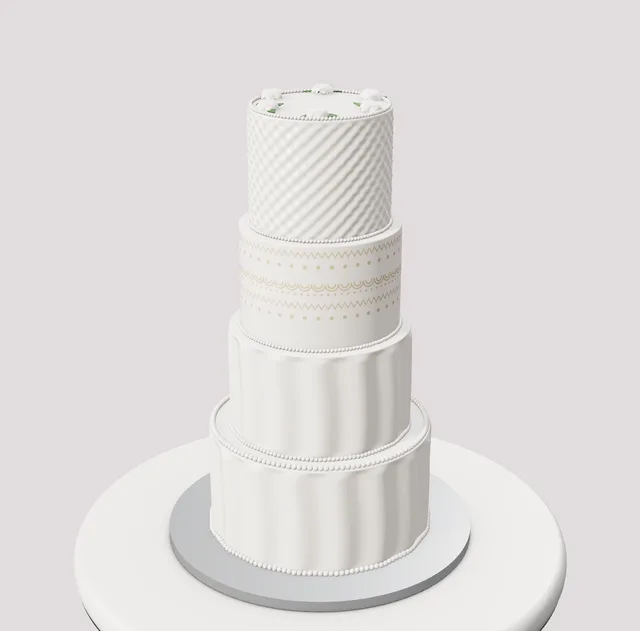
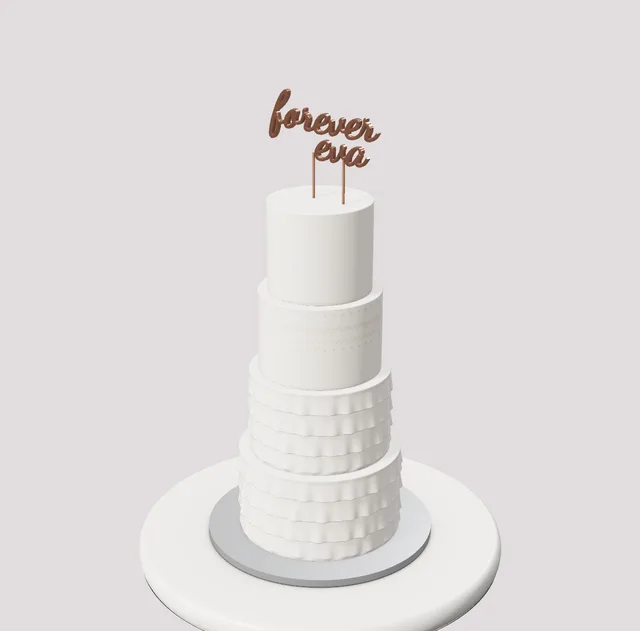
Forever Ruffles: layered fondant frills texture, script word topper (new Script Word Topper decor)
Claude-Session: https://claude.ai/code/session_016sN14hzH19WJ5zrp8o2QGp

Changed region(s): [[0.25, 0.1204, 0.7812, 1.0], [0.8125, 0.8732, 0.9062, 1.0], [0.3125, 0.9937, 0.3438, 1.0]]

diff --git a/studio.html b/studio.html
@@ -439,7 +439,7 @@ const ti=b=>'<svg viewBox="0 0 48 24" fill="none" stroke="currentColor" stroke-w
 const TEX_ICONS={rosettes:ti('<circle cx="14" cy="8" r="4"/><circle cx="24" cy="8" r="4"/><circle cx="34" cy="8" r="4"/><circle cx="19" cy="16" r="4"/><circle cx="29" cy="16" r="4"/><path d="M14 8m-1.5 0a1.5 1.5 0 1 0 1.5-1.5M24 8m-1.5 0a1.5 1.5 0 1 0 1.5-1.5M34 8m-1.5 0a1.5 1.5 0 1 0 1.5-1.5" stroke-width="1"/>'),smooth:ti('<rect x="8" y="4" width="32" height="16" rx="2"/>'),seminaked:ti('<rect x="8" y="4" width="32" height="16" rx="2"/><path d="M10 10h8M22 10h6M32 10h6M12 15h10M26 15h10" stroke-dasharray="2 2"/>'),lines:ti('<path d="M8 6h32M8 10h32M8 14h32M8 18h32"/>'),ribbed:ti('<path d="M12 4v16M17 4v16M22 4v16M27 4v16M32 4v16M37 4v16"/>'),scallop:ti('<path d="M8 8c2-3 4-3 6 0s4 3 6 0 4-3 6 0 4 3 6 0 4-3 6 0M8 15c2-3 4-3 6 0s4 3 6 0 4-3 6 0 4 3 6 0 4-3 6 0"/>'),stripes:ti('<path d="M8 6h32M8 14h32" stroke-width="3"/><path d="M8 10h32M8 18h32" stroke-width="3" opacity=".4"/>'),combed:ti('<path d="M8 7h32M8 9.5h32M8 12h32M8 14.5h32M8 17h32" stroke-width="1"/>'),knife:ti('<path d="M8 16l8-8 6 5 7-7 5 4 6-4M10 20l9-5 7 3 9-6"/>'),stucco:ti('<path d="M10 16l2-5 2 5M18 12l2-5 2 5M26 16l2-5 2 5M34 12l2-5 2 5M14 20l2-4 2 4M30 20l2-4 2 4"/>'),swirl:ti('<path d="M10 14c0-6 10-6 10 0s-6 5-6 1M26 12c0-6 10-6 10 0s-6 5-6 1"/>'),wave:ti('<path d="M3 8c4-5 7 5 11 0s7 5 11 0 7 5 11 0 7 5 9 0M3 17c4-5 7 5 11 0s7 5 11 0 7 5 11 0 7 5 9 0"/>'),zigzag:ti('<path d="M3 9l5-5 5 5 5-5 5 5 5-5 5 5 5-5 5 5M3 19l5-5 5 5 5-5 5 5 5-5 5 5 5-5 5 5"/>'),basket:ti('<path d="M4 4h14v7H4zM20 4h14v7H20zM4 13h14v7H4zM20 13h14v7H20zM36 4h8v7h-8zM36 13h8v7h-8z"/>'),diamond:ti('<path d="M12 2l10 10-10 10L2 12zM32 2l10 10-10 10-10-10z"/>'),golf:ti('<circle cx="8" cy="7" r="2"/><circle cx="18" cy="7" r="2"/><circle cx="28" cy="7" r="2"/><circle cx="38" cy="7" r="2"/><circle cx="13" cy="15" r="2"/><circle cx="23" cy="15" r="2"/><circle cx="33" cy="15" r="2"/>'),dimple:ti('<circle cx="10" cy="7" r="3"/><circle cx="24" cy="7" r="3"/><circle cx="38" cy="7" r="3"/><circle cx="17" cy="17" r="3"/><circle cx="31" cy="17" r="3"/>'),ruffle:ti('<path d="M6 2c-4 6 4 14 0 20M16 2c-4 6 4 14 0 20M26 2c-4 6 4 14 0 20M36 2c-4 6 4 14 0 20"/>'),brushed:ti('<path d="M8 2v20M15 4v18M22 2v19M29 5v17M36 2v20"/>'),swipes:ti('<path d="M8 20l4-18M17 22l4-18M26 20l4-18M35 22l4-18"/>')};TEX_ICONS.grass=ti('<path d="M6 20l1-12M10 20l-1-10M14 20l2-12M18 20l-1-9M22 20l2-12M26 20l-1-10M30 20l2-12M34 20l-1-9M38 20l2-11M42 20l-1-10"/>');TEX_ICONS.fur=ti('<path d="M5 8c1 4 3 6 4 10M11 8c1 4 3 6 4 10M17 8c1 4 3 6 4 10M23 8c1 4 3 6 4 10M29 8c1 4 3 6 4 10M35 8c1 4 3 6 4 10M41 8c1 4 2 6 3 10"/>');
 const DRIPS=['#3b2216','#6b3f24','#f4ecdf','#b8742e','#d4ae5a','#c9ccd2','#e9a6ba','#9fc0d6'];
 const PALETTES=[{name:'Blush And Ivory',frost:['#fbf7f1','#f3d6dc','#fbf7f1'],pipe:'#fbf7f1',bow:'#f29bb4'},{name:'Sage Garden',frost:['#c9d8c5','#fbf7f1','#c9d8c5'],pipe:'#fbf7f1',bow:'#9db59a'},{name:'Dusty Blue',frost:['#d9e6ee','#fbf7f1','#d9e6ee'],pipe:'#fbf7f1',bow:'#9fc0d6'},{name:'Lavender',frost:['#cbbfe0','#fbf7f1','#cbbfe0'],pipe:'#fbf7f1',bow:'#cbbfe0'},{name:'Peach',frost:['#f6dcc8','#fbf7f1','#f6dcc8'],pipe:'#fbf7f1',bow:'#e9a6ba'},{name:'Black And Gold',frost:['#2f2a2c','#fbf7f1','#2f2a2c'],pipe:'#c9a24e',bow:'#c9a24e'},{name:'Chocolate Caramel',frost:['#7a4a32','#e7c08f','#7a4a32'],pipe:'#e7c08f',bow:'#6b4a3a'},{name:'All White',frost:['#fbf7f1','#fbf7f1','#fbf7f1'],pipe:'#fbf7f1',bow:'#fbf7f1'}];
-const TEXTURES={rosettes:'Rosette Cake',smooth:'Smooth',knife:'Palette Knife',lines:'Comb Lines',ribbed:'Ribbed Comb',scallop:'Scalloped',stripes:'Two-Tone Stripes',swirl:'Rustic Swirl',stucco:'Stucco Peaks',combed:'Fine Combed',seminaked:'Semi-Naked',wave:'Wavy Comb',zigzag:'Chevron Comb',basket:'Basket Weave',diamond:'Diamond Quilt',dimple:'Pillow Dimples',golf:'Golf Ball Dimples',ruffle:'Buttercream Ruffles',brushed:'Brushed Streaks',swipes:'Spatula Swipes',grass:'Piped Grass (All Over)',fur:'Piped Fur (All Over)'};
+const TEXTURES={rosettes:'Rosette Cake',smooth:'Smooth',knife:'Palette Knife',lines:'Comb Lines',ribbed:'Ribbed Comb',scallop:'Scalloped',stripes:'Two-Tone Stripes',swirl:'Rustic Swirl',stucco:'Stucco Peaks',combed:'Fine Combed',seminaked:'Semi-Naked',wave:'Wavy Comb',zigzag:'Chevron Comb',basket:'Basket Weave',diamond:'Diamond Quilt',dimple:'Pillow Dimples',golf:'Golf Ball Dimples',ruffle:'Buttercream Ruffles',frills:'Fondant Frills',brushed:'Brushed Streaks',swipes:'Spatula Swipes',grass:'Piped Grass (All Over)',fur:'Piped Fur (All Over)'};
 const BORDERS={none:'None',shells:'Shells',rshells:'Reverse Shells',pearls:'Pearls',dpearls:'Double Pearls',kisses:'Kisses',stars:'Star Drops',dflowers:'Drop Flowers',rosettes:'Rosettes',rope:'Rope',scrolls:'C-Scrolls',zigzag:'Zigzag',ruffle:'Ruffle',leaves:'Leaves',grass:'Piped Grass'};
 const SIDES={none:'None',drapes:'Fondant Drapes',swags:'Swags',double:'Double Swags',lambeth:'Lambeth',strings:'Drop Strings',quilted:'Quilted Pearls',deco:'Art Deco Fans'};
 const TOPS={none:'None',roses:'Sugar Roses',berries:'Fresh Berries',rosettes:'Rosette Crown',horn:'Unicorn Horn'};
@@ -1124,7 +1124,7 @@ const TEX3D={
  diamond:{rows:150,segs:400,make:(r,h,q)=>{const Nd=Math.max(8,Math.round(2*PI*r/.75));return(a,yy)=>{const ui=a/(2*PI)*Nd,vi=yy/.75;return .06*(Math.abs(Math.sin(PI*(ui+vi)))*Math.abs(Math.sin(PI*(ui-vi)))-.3)}}},
  dimple:{rows:150,segs:400,make:(r,h,q)=>{const N=Math.max(8,Math.round(2*PI*r/.6));return(a,yy)=>.05*Math.cos(N*a)*Math.cos(2*PI*yy/.6)}},
  golf:{rows:190,segs:640,make:(r,h,q)=>{const sp=.42,N=Math.max(10,Math.round(2*PI*r/sp)),cu=2*PI*r/N,vh=sp*.866,fr=x=>x-Math.floor(x);return(a,yy)=>{const v=yy/vh,row=Math.floor(v),u=fr(a/(2*PI))*N+(row%2?.5:0),du=(fr(u)-.5)*cu,dv=(fr(v)-.5)*vh,d=Math.hypot(du,dv),k=Math.max(0,1-d/.16);return -.045*k*k*(3-2*k)}}},
- ruffle:{rows:50,segs:480,make:(r,h,q)=>{const N=Math.max(10,Math.round(r*3.4));return(a,yy)=>.1*Math.sin(N*a+.35*Math.sin(yy*.9))}},
+ frills:{rows:140,segs:720,make:(r,h,q)=>{const N=Math.max(12,Math.round(r*4.2)),RH=Math.max(1,h/Math.max(2,Math.round(h/1.35))),ph=[...Array(12)].map(()=>q()*6.28);return(a,yy)=>{const k=Math.floor(yy/RH),u=yy/RH-k,p=ph[k%12],w=Math.sin(N*a+p+.6*Math.sin(3*a+p))*.6+Math.sin(N*1.7*a+p*2)*.4;return(.03+.2*Math.pow(1-u,1.6))*(.55+.45*w)-.05}}},ruffle:{rows:50,segs:480,make:(r,h,q)=>{const N=Math.max(10,Math.round(r*3.4));return(a,yy)=>.1*Math.sin(N*a+.35*Math.sin(yy*.9))}},
  brushed:{rows:110,segs:420,make:(r,h,q)=>{const f=fbm(36,2,1100+Math.floor(q()*500));return(a,yy)=>{const u=((a/(2*PI))%1+1)%1;return .07*(f(u,(yy/h)*.12)-.5)}}},
  swipes:{rows:110,segs:420,make:(r,h,q)=>{const N=Math.max(8,Math.round(2*PI*r/.8)),f=fbm(N,2,1300+Math.floor(q()*500));return(a,yy)=>{const ui=a/(2*PI)*N,fr=((ui%1)+1)%1,u=((a/(2*PI))%1+1)%1;return .06*(fr-.5)+.03*(f(u,(yy/h)*.3)-.5)}}}};
 const texFade=(yy,h)=>smooth(.03,.3,yy)*smooth(h-.02,h-.32,yy);
@@ -1583,6 +1583,17 @@ function sportsTopParts(q,c,mode,dc){const RAD=(dc&&dc.rad)||1;const F=(r0,r1,a0
 DECOR.sportstop={label:'Sports Field Top',layouts:['cluster'],layout:'cluster',count:1,max:1,color:'#3f8f45',colors:['#3f8f45'],sp:.3,side:'up',sink:0,tilt:[0,0],spin:0,make:sportsTopParts};
 DECOR_ICONS.sportstop=di('<circle cx="20" cy="20" r="14" fill="#5cb04e"/><path d="M20 20V6A14 14 0 0 1 34 20z" fill="#d9893a"/><path d="M20 20H6A14 14 0 0 0 20 34z" fill="#2f6fd0"/>');
 {const c=DECOR_CATS.find(x=>x.key==='signature');c.items.push('sportstop')}
+// ---- script word topper (e.g. "forever|eva"), traced from the script fonts ----
+const SCRIPT_WAIT=new Set();
+function scriptTopParts(q,c,mode,dc){const MF=MSG_FONTS[(dc&&dc.font)||'dancing']||MSG_FONTS.dancing,ff={css:MF.css,w:MF.w||''},fs=(ff.w?ff.w+' ':'')+'80px '+MF.css;
+ if(document.fonts&&!document.fonts.check(fs)&&!SCRIPT_WAIT.has(fs)){SCRIPT_WAIT.add(fs);document.fonts.load(fs).then(()=>{GLY.clear();scheduleBuild()}).catch(()=>{})}
+ const lines=String((dc&&dc.text)||'forever|eva').split('|').slice(0,3),gs=[];let y=0;
+ lines.forEach((ln,i)=>{const sh=NUM_FONT.generateShapes(ln,.55,ff);if(!sh.length)return;const g=new T.ExtrudeGeometry(sh,{depth:.07,bevelEnabled:true,bevelThickness:.012,bevelSize:.008,bevelSegments:1,curveSegments:6});g.computeBoundingBox();const b=g.boundingBox;g.translate(-(b.min.x+b.max.x)/2+(i%2?.25:-.1),-b.max.y+y,-.035);y-=(b.max.y-b.min.y)*.86;gs.push(g)});
+ if(!gs.length)return[];const m=mg(gs);m.computeBoundingBox();const bb=m.boundingBox,pk=[];for(const sx of[-.28,.28]){const p=new T.CylinderGeometry(.022,.022,1.3,8);p.translate(sx,bb.min.y-.55,0);pk.push(p)}
+ return[[sgMat.metal(c),mg([m,...pk])]]}
+DECOR.scripttop={label:'Script Word Topper',layouts:['cluster'],layout:'cluster',count:1,max:1,color:'#d9a08a',colors:['#d9a08a','#d4ae5a','#c9ccd2','#1d1b1f','#fbf7f1'],sp:.4,side:'up',sink:.6,tilt:[0,0],spin:0,make:scriptTopParts};
+DECOR_ICONS.scripttop=di('<text x="20" y="24" font-size="13" text-anchor="middle" fill="#d9a08a" font-style="italic" font-family="cursive">love</text>');
+{const c=DECOR_CATS.find(x=>x.key==='signature');c.items.push('scripttop')}
 
 // ---------- Signature cakes: Sprinkle Me Silly's real cakes, rebuilt in the Studio ----------
 const SIG='Signature Cakes';
@@ -1613,11 +1624,11 @@ THEMES.unshift(
   newTier(10,3.6,{shape:'square',color:'#fbf7f1',finish:'fondant',texture:'dimple',prof:'pillow',top:'rope',pipe:'#d4ae5a',bottom:'rope',bottomColor:'#d4ae5a',stencil:{pattern:'damask',color:'#d4ae5a',size:1.8,height:1.8,y:-.8},decor:[DC('roses','band',16,{color:'#fbf7f1',size:130,y:-1.4})]}),
   newTier(7.5,3.2,{shape:'square',color:'#fbf7f1',finish:'fondant',texture:'ruffle',prof:'pillow',top:'rope',pipe:'#fbf7f1',bottom:'scrolls',bottomColor:'#d4ae5a',decor:[DC('tassel','band',4,{color:'#d4ae5a',size:180,rot:45,y:.9})]}),
   newTier(5.5,3.4,{color:'#c9ccd2',texture:'rosettes',prof:'dome',top:'none',bottom:'none',decor:[DC('roses','cluster',10,{color:'#fbf7f1',size:130})]})]}},
- {key:'sig_ruffles',name:'Forever Ruffles',tag:SIG,blurb:'Four ivory fondant tiers with a sweep of ruffles, a lace band and a clean top tier ready for your script topper.',d:{board:'silver',topper:'none',tiers:[
-  newTier(10,5,{color:'#fbf8f2',finish:'fondant',texture:'ruffle',top:'pearls',pipe:'#fbf8f2',bottom:'pearls',bottomColor:'#fbf8f2'}),
-  newTier(8,4.8,{color:'#fbf8f2',finish:'fondant',texture:'ruffle',top:'pearls',pipe:'#fbf8f2',bottom:'pearls',bottomColor:'#fbf8f2'}),
-  newTier(7,4.6,{color:'#fbf8f2',finish:'fondant',top:'pearls',pipe:'#fbf8f2',bottom:'pearls',bottomColor:'#fbf8f2',stencil:{pattern:'lace',color:'#cdb89a',size:2.2,height:3.2,y:.6}}),
-  newTier(6,5,{color:'#fbf8f2',finish:'fondant',texture:'dimple',top:'pearls',pipe:'#fbf8f2',bottom:'pearls',bottomColor:'#fbf8f2',decor:[DC('roses','crown',6,{color:'#fbf8f2',size:120})]})]}},
+ {key:'sig_ruffles',name:'Forever Ruffles',tag:SIG,blurb:'Four ivory fondant tiers: two bottom tiers swept in soft ruffles, a lace band, a clean top tier and a rose gold "forever" script topper.',d:{board:'silver',topper:'none',tiers:[
+  newTier(10,5.4,{color:'#fbf8f2',finish:'fondant',texture:'frills',top:'none',bottom:'none'}),
+  newTier(8.6,5.2,{color:'#fbf8f2',finish:'fondant',texture:'frills',top:'none',bottom:'none'}),
+  newTier(7.4,5,{color:'#fbf8f2',finish:'fondant',top:'none',bottom:'none',stencil:{pattern:'lace',color:'#e6dccd',size:2.2,height:2.6,y:1.1}}),
+  newTier(6.2,5.4,{color:'#fbf8f2',finish:'fondant',top:'none',bottom:'none',decor:[DC('scripttop','cluster',1,{color:'#e2ae96',size:380,center:true,face:95,text:'forever|eva'})]})]}},
  {key:'sig_rosegold',name:'Rose Gold Jewels',tag:SIG,blurb:'Six tiers of quilted ivory, jeweled chain swags, a rose gold glitter tier and rhinestone brooch bursts with rose gold roses.',d:{board:'rosegold',topper:'none',tiers:[
   newTier(12,4,{color:'#fbf8f2',finish:'fondant',side:'quilted',sideColor:'#fbf8f2',pearlColor:'#d9a08a',top:'pearls',pipe:'#d9a08a',bottom:'pearls',bottomColor:'#d9a08a',decor:[DC('brooch','band',1,{color:'#d9a08a',size:230,R:6,rot:95}),DC('dragees','scatter',40,{color:'#d9a08a',size:45})]}),
   newTier(10,3.6,{color:'#fbf8f2',finish:'fondant',side:'swags',sideColor:'#d9a08a',pearlColor:'#d9a08a',top:'pearls',pipe:'#d9a08a',bottom:'pearls',bottomColor:'#d9a08a',decor:[DC('roses','cascade',5,{color:'#d9a08a',size:130,rot:-30})]}),
@@ -1701,14 +1712,14 @@ let numFontP=null,numArea=0,numSize={w:0,d:0};
 const NUM_CAKES={golden:'#d9a45c',vanilla:'#efd9a8',chocolate:'#5a3424',pink:'#e9a6ba',redvelvet:'#9a2a33'};
 const NUM_CAKE_LABELS={golden:'Golden Cookie',vanilla:'Vanilla Sponge',chocolate:'Chocolate',pink:'Strawberry Pink',redvelvet:'Red Velvet'};
 // Letters and numbers are drawn from the browser's own bold font and traced into outlines (with holes), so nothing is downloaded and every letter works.
-function glyphLoops(text){const FS=360,font='bold '+FS+'px "Arial Black","Helvetica Neue",Arial,Helvetica,"Liberation Sans","DejaVu Sans",sans-serif',cv=document.createElement('canvas'),x=cv.getContext('2d',{willReadFrequently:true});x.font=font;const W=Math.ceil(x.measureText(text).width)+60,H=Math.ceil(FS*1.35),base=Math.round(FS*1.05);cv.width=W;cv.height=H;x.font=font;x.fillStyle='#000';x.fillText(text,30,base);
+function glyphLoops(text,ff){const FS=360,font=ff?((ff.w?ff.w+' ':'')+FS+'px '+ff.css):'bold '+FS+'px "Arial Black","Helvetica Neue",Arial,Helvetica,"Liberation Sans","DejaVu Sans",sans-serif',cv=document.createElement('canvas'),x=cv.getContext('2d',{willReadFrequently:true});x.font=font;const W=Math.ceil(x.measureText(text).width)+60,H=Math.ceil(FS*1.35),base=Math.round(FS*1.05);cv.width=W;cv.height=H;x.font=font;x.fillStyle='#000';x.fillText(text,30,base);
  const d=x.getImageData(0,0,W,H).data,on=(i,j)=>i>=0&&j>=0&&i<W&&j<H&&d[(j*W+i)*4+3]>127,V=W+1,out=new Map(),add=(a,b)=>{let l=out.get(a);if(!l)out.set(a,l=[]);l.push(b)};
  for(let j=0;j<H;j++)for(let i=0;i<W;i++){if(!on(i,j))continue;const a=j*V+i;if(!on(i,j-1))add(a,a+1);if(!on(i+1,j))add(a+1,a+1+V);if(!on(i,j+1))add(a+1+V,a+V);if(!on(i-1,j))add(a+V,a)}
  const loops=[];for(const[start,l0]of out){while(l0.length){const pts=[];let cur=start,nx=l0.pop();pts.push(cur);let guard=0;while(nx!==start&&guard++<2e6){pts.push(nx);const l=out.get(nx);if(!l||!l.length)break;cur=nx;nx=l.pop()}if(pts.length>=4)loops.push(pts.map(v=>[v%V,(v/V)|0]))}}
  const area=P=>{let a=0;for(let i=0,j=P.length-1;i<P.length;j=i++)a+=(P[j][0]*P[i][1]-P[i][0]*P[j][1]);return a/2},rdp=(P,e)=>{if(P.length<3)return P;const a=P[0],b=P[P.length-1],l=Math.hypot(b[0]-a[0],b[1]-a[1])||1e-6;let md=0,mi=0;for(let i=1;i<P.length-1;i++){const dd=Math.abs((b[0]-a[0])*(a[1]-P[i][1])-(a[0]-P[i][0])*(b[1]-a[1]))/l;if(dd>md){md=dd;mi=i}}if(md>e){const A=rdp(P.slice(0,mi+1),e),B=rdp(P.slice(mi),e);return A.slice(0,-1).concat(B)}return[a,b]};
  const simp=loops.map(P=>{let mi=0,ma=0;P.forEach((p,i)=>{if(p[0]+p[1]*7>ma){ma=p[0]+p[1]*7;mi=i}});const R=P.slice(mi).concat(P.slice(0,mi));R.push(R[0]);const k=R.length>>1,A=rdp(R.slice(0,k+1),.75),B=rdp(R.slice(k),.75),S=A.slice(0,-1).concat(B.slice(0,-1));return S}).filter(P=>P.length>=3&&Math.abs(area(P))>40);
  return{loops:simp.map(P=>({P,a:area(P)})),base,FS}}
-const GLY=new Map(),NUM_FONT={generateShapes(text,size){let g=GLY.get(text);if(!g){g=glyphLoops(text);GLY.set(text,g);if(GLY.size>30)GLY.delete(GLY.keys().next().value)}const sc=size/(g.FS*.72),sgn=Math.sign(g.loops.reduce((m,l)=>Math.abs(l.a)>Math.abs(m)?l.a:m,0))||1,conv=P=>P.map(([px,py])=>new V2((px-30)*sc,(g.base-py)*sc)),pip=(pt,poly)=>{let c=false;for(let i=0,j=poly.length-1;i<poly.length;j=i++){const[xi,yi]=poly[i],[xj,yj]=poly[j];if((yi>pt[1])!==(yj>pt[1])&&pt[0]<(xj-xi)*(pt[1]-yi)/(yj-yi)+xi)c=!c}return c};
+const GLY=new Map(),NUM_FONT={generateShapes(text,size,ff){const gk=text+'|'+(ff?ff.css+(ff.w||''):'');let g=GLY.get(gk);if(!g){g=glyphLoops(text,ff);GLY.set(gk,g);if(GLY.size>30)GLY.delete(GLY.keys().next().value)}const sc=size/(g.FS*.72),sgn=Math.sign(g.loops.reduce((m,l)=>Math.abs(l.a)>Math.abs(m)?l.a:m,0))||1,conv=P=>P.map(([px,py])=>new V2((px-30)*sc,(g.base-py)*sc)),pip=(pt,poly)=>{let c=false;for(let i=0,j=poly.length-1;i<poly.length;j=i++){const[xi,yi]=poly[i],[xj,yj]=poly[j];if((yi>pt[1])!==(yj>pt[1])&&pt[0]<(xj-xi)*(pt[1]-yi)/(yj-yi)+xi)c=!c}return c};
   const outers=g.loops.filter(l=>Math.sign(l.a)===sgn),holes=g.loops.filter(l=>Math.sign(l.a)!==sgn),shapes=outers.map(o=>({o,s:new T.Shape(conv(o.P))}));
   for(const h of holes){const host=shapes.filter(q=>pip(h.P[0],q.o.P)).sort((a,b)=>Math.abs(a.o.a)-Math.abs(b.o.a))[0];if(host)host.s.holes.push(new T.Path(conv(h.P)))}
   return shapes.map(q=>q.s)}};

diff --git a/tools/signature-decor.js b/tools/signature-decor.js
@@ -251,6 +251,17 @@ function sportsTopParts(q,c,mode,dc){const RAD=(dc&&dc.rad)||1;const F=(r0,r1,a0
 DECOR.sportstop={label:'Sports Field Top',layouts:['cluster'],layout:'cluster',count:1,max:1,color:'#3f8f45',colors:['#3f8f45'],sp:.3,side:'up',sink:0,tilt:[0,0],spin:0,make:sportsTopParts};
 DECOR_ICONS.sportstop=di('<circle cx="20" cy="20" r="14" fill="#5cb04e"/><path d="M20 20V6A14 14 0 0 1 34 20z" fill="#d9893a"/><path d="M20 20H6A14 14 0 0 0 20 34z" fill="#2f6fd0"/>');
 {const c=DECOR_CATS.find(x=>x.key==='signature');c.items.push('sportstop')}
+// ---- script word topper (e.g. "forever|eva"), traced from the script fonts ----
+const SCRIPT_WAIT=new Set();
+function scriptTopParts(q,c,mode,dc){const MF=MSG_FONTS[(dc&&dc.font)||'dancing']||MSG_FONTS.dancing,ff={css:MF.css,w:MF.w||''},fs=(ff.w?ff.w+' ':'')+'80px '+MF.css;
+ if(document.fonts&&!document.fonts.check(fs)&&!SCRIPT_WAIT.has(fs)){SCRIPT_WAIT.add(fs);document.fonts.load(fs).then(()=>{GLY.clear();scheduleBuild()}).catch(()=>{})}
+ const lines=String((dc&&dc.text)||'forever|eva').split('|').slice(0,3),gs=[];let y=0;
+ lines.forEach((ln,i)=>{const sh=NUM_FONT.generateShapes(ln,.55,ff);if(!sh.length)return;const g=new T.ExtrudeGeometry(sh,{depth:.07,bevelEnabled:true,bevelThickness:.012,bevelSize:.008,bevelSegments:1,curveSegments:6});g.computeBoundingBox();const b=g.boundingBox;g.translate(-(b.min.x+b.max.x)/2+(i%2?.25:-.1),-b.max.y+y,-.035);y-=(b.max.y-b.min.y)*.86;gs.push(g)});
+ if(!gs.length)return[];const m=mg(gs);m.computeBoundingBox();const bb=m.boundingBox,pk=[];for(const sx of[-.28,.28]){const p=new T.CylinderGeometry(.022,.022,1.3,8);p.translate(sx,bb.min.y-.55,0);pk.push(p)}
+ return[[sgMat.metal(c),mg([m,...pk])]]}
+DECOR.scripttop={label:'Script Word Topper',layouts:['cluster'],layout:'cluster',count:1,max:1,color:'#d9a08a',colors:['#d9a08a','#d4ae5a','#c9ccd2','#1d1b1f','#fbf7f1'],sp:.4,side:'up',sink:.6,tilt:[0,0],spin:0,make:scriptTopParts};
+DECOR_ICONS.scripttop=di('<text x="20" y="24" font-size="13" text-anchor="middle" fill="#d9a08a" font-style="italic" font-family="cursive">love</text>');
+{const c=DECOR_CATS.find(x=>x.key==='signature');c.items.push('scripttop')}
 
 // ---------- Signature cakes: Sprinkle Me Silly's real cakes, rebuilt in the Studio ----------
 const SIG='Signature Cakes';
@@ -281,11 +292,11 @@ THEMES.unshift(
   newTier(10,3.6,{shape:'square',color:'#fbf7f1',finish:'fondant',texture:'dimple',prof:'pillow',top:'rope',pipe:'#d4ae5a',bottom:'rope',bottomColor:'#d4ae5a',stencil:{pattern:'damask',color:'#d4ae5a',size:1.8,height:1.8,y:-.8},decor:[DC('roses','band',16,{color:'#fbf7f1',size:130,y:-1.4})]}),
   newTier(7.5,3.2,{shape:'square',color:'#fbf7f1',finish:'fondant',texture:'ruffle',prof:'pillow',top:'rope',pipe:'#fbf7f1',bottom:'scrolls',bottomColor:'#d4ae5a',decor:[DC('tassel','band',4,{color:'#d4ae5a',size:180,rot:45,y:.9})]}),
   newTier(5.5,3.4,{color:'#c9ccd2',texture:'rosettes',prof:'dome',top:'none',bottom:'none',decor:[DC('roses','cluster',10,{color:'#fbf7f1',size:130})]})]}},
- {key:'sig_ruffles',name:'Forever Ruffles',tag:SIG,blurb:'Four ivory fondant tiers with a sweep of ruffles, a lace band and a clean top tier ready for your script topper.',d:{board:'silver',topper:'none',tiers:[
-  newTier(10,5,{color:'#fbf8f2',finish:'fondant',texture:'ruffle',top:'pearls',pipe:'#fbf8f2',bottom:'pearls',bottomColor:'#fbf8f2'}),
-  newTier(8,4.8,{color:'#fbf8f2',finish:'fondant',texture:'ruffle',top:'pearls',pipe:'#fbf8f2',bottom:'pearls',bottomColor:'#fbf8f2'}),
-  newTier(7,4.6,{color:'#fbf8f2',finish:'fondant',top:'pearls',pipe:'#fbf8f2',bottom:'pearls',bottomColor:'#fbf8f2',stencil:{pattern:'lace',color:'#cdb89a',size:2.2,height:3.2,y:.6}}),
-  newTier(6,5,{color:'#fbf8f2',finish:'fondant',texture:'dimple',top:'pearls',pipe:'#fbf8f2',bottom:'pearls',bottomColor:'#fbf8f2',decor:[DC('roses','crown',6,{color:'#fbf8f2',size:120})]})]}},
+ {key:'sig_ruffles',name:'Forever Ruffles',tag:SIG,blurb:'Four ivory fondant tiers: two bottom tiers swept in soft ruffles, a lace band, a clean top tier and a rose gold "forever" script topper.',d:{board:'silver',topper:'none',tiers:[
+  newTier(10,5.4,{color:'#fbf8f2',finish:'fondant',texture:'frills',top:'none',bottom:'none'}),
+  newTier(8.6,5.2,{color:'#fbf8f2',finish:'fondant',texture:'frills',top:'none',bottom:'none'}),
+  newTier(7.4,5,{color:'#fbf8f2',finish:'fondant',top:'none',bottom:'none',stencil:{pattern:'lace',color:'#e6dccd',size:2.2,height:2.6,y:1.1}}),
+  newTier(6.2,5.4,{color:'#fbf8f2',finish:'fondant',top:'none',bottom:'none',decor:[DC('scripttop','cluster',1,{color:'#e2ae96',size:380,center:true,face:95,text:'forever|eva'})]})]}},
  {key:'sig_rosegold',name:'Rose Gold Jewels',tag:SIG,blurb:'Six tiers of quilted ivory, jeweled chain swags, a rose gold glitter tier and rhinestone brooch bursts with rose gold roses.',d:{board:'rosegold',topper:'none',tiers:[
   newTier(12,4,{color:'#fbf8f2',finish:'fondant',side:'quilted',sideColor:'#fbf8f2',pearlColor:'#d9a08a',top:'pearls',pipe:'#d9a08a',bottom:'pearls',bottomColor:'#d9a08a',decor:[DC('brooch','band',1,{color:'#d9a08a',size:230,R:6,rot:95}),DC('dragees','scatter',40,{color:'#d9a08a',size:45})]}),
   newTier(10,3.6,{color:'#fbf8f2',finish:'fondant',side:'swags',sideColor:'#d9a08a',pearlColor:'#d9a08a',top:'pearls',pipe:'#d9a08a',bottom:'pearls',bottomColor:'#d9a08a',decor:[DC('roses','cascade',5,{color:'#d9a08a',size:130,rot:-30})]}),

diff --git a/tools/sig-themes.js b/tools/sig-themes.js
@@ -27,11 +27,11 @@ THEMES.unshift(
   newTier(10,3.6,{shape:'square',color:'#fbf7f1',finish:'fondant',texture:'dimple',prof:'pillow',top:'rope',pipe:'#d4ae5a',bottom:'rope',bottomColor:'#d4ae5a',stencil:{pattern:'damask',color:'#d4ae5a',size:1.8,height:1.8,y:-.8},decor:[DC('roses','band',16,{color:'#fbf7f1',size:130,y:-1.4})]}),
   newTier(7.5,3.2,{shape:'square',color:'#fbf7f1',finish:'fondant',texture:'ruffle',prof:'pillow',top:'rope',pipe:'#fbf7f1',bottom:'scrolls',bottomColor:'#d4ae5a',decor:[DC('tassel','band',4,{color:'#d4ae5a',size:180,rot:45,y:.9})]}),
   newTier(5.5,3.4,{color:'#c9ccd2',texture:'rosettes',prof:'dome',top:'none',bottom:'none',decor:[DC('roses','cluster',10,{color:'#fbf7f1',size:130})]})]}},
- {key:'sig_ruffles',name:'Forever Ruffles',tag:SIG,blurb:'Four ivory fondant tiers with a sweep of ruffles, a lace band and a clean top tier ready for your script topper.',d:{board:'silver',topper:'none',tiers:[
-  newTier(10,5,{color:'#fbf8f2',finish:'fondant',texture:'ruffle',top:'pearls',pipe:'#fbf8f2',bottom:'pearls',bottomColor:'#fbf8f2'}),
-  newTier(8,4.8,{color:'#fbf8f2',finish:'fondant',texture:'ruffle',top:'pearls',pipe:'#fbf8f2',bottom:'pearls',bottomColor:'#fbf8f2'}),
-  newTier(7,4.6,{color:'#fbf8f2',finish:'fondant',top:'pearls',pipe:'#fbf8f2',bottom:'pearls',bottomColor:'#fbf8f2',stencil:{pattern:'lace',color:'#cdb89a',size:2.2,height:3.2,y:.6}}),
-  newTier(6,5,{color:'#fbf8f2',finish:'fondant',texture:'dimple',top:'pearls',pipe:'#fbf8f2',bottom:'pearls',bottomColor:'#fbf8f2',decor:[DC('roses','crown',6,{color:'#fbf8f2',size:120})]})]}},
+ {key:'sig_ruffles',name:'Forever Ruffles',tag:SIG,blurb:'Four ivory fondant tiers: two bottom tiers swept in soft ruffles, a lace band, a clean top tier and a rose gold "forever" script topper.',d:{board:'silver',topper:'none',tiers:[
+  newTier(10,5.4,{color:'#fbf8f2',finish:'fondant',texture:'frills',top:'none',bottom:'none'}),
+  newTier(8.6,5.2,{color:'#fbf8f2',finish:'fondant',texture:'frills',top:'none',bottom:'none'}),
+  newTier(7.4,5,{color:'#fbf8f2',finish:'fondant',top:'none',bottom:'none',stencil:{pattern:'lace',color:'#e6dccd',size:2.2,height:2.6,y:1.1}}),
+  newTier(6.2,5.4,{color:'#fbf8f2',finish:'fondant',top:'none',bottom:'none',decor:[DC('scripttop','cluster',1,{color:'#e2ae96',size:380,center:true,face:95,text:'forever|eva'})]})]}},
  {key:'sig_rosegold',name:'Rose Gold Jewels',tag:SIG,blurb:'Six tiers of quilted ivory, jeweled chain swags, a rose gold glitter tier and rhinestone brooch bursts with rose gold roses.',d:{board:'rosegold',topper:'none',tiers:[
   newTier(12,4,{color:'#fbf8f2',finish:'fondant',side:'quilted',sideColor:'#fbf8f2',pearlColor:'#d9a08a',top:'pearls',pipe:'#d9a08a',bottom:'pearls',bottomColor:'#d9a08a',decor:[DC('brooch','band',1,{color:'#d9a08a',size:230,R:6,rot:95}),DC('dragees','scatter',40,{color:'#d9a08a',size:45})]}),
   newTier(10,3.6,{color:'#fbf8f2',finish:'fondant',side:'swags',sideColor:'#d9a08a',pearlColor:'#d9a08a',top:'pearls',pipe:'#d9a08a',bottom:'pearls',bottomColor:'#d9a08a',decor:[DC('roses','cascade',5,{color:'#d9a08a',size:130,rot:-30})]}),

diff --git a/tools/sig-extra.js b/tools/sig-extra.js
@@ -76,3 +76,14 @@ function sportsTopParts(q,c,mode,dc){const RAD=(dc&&dc.rad)||1;const F=(r0,r1,a0
 DECOR.sportstop={label:'Sports Field Top',layouts:['cluster'],layout:'cluster',count:1,max:1,color:'#3f8f45',colors:['#3f8f45'],sp:.3,side:'up',sink:0,tilt:[0,0],spin:0,make:sportsTopParts};
 DECOR_ICONS.sportstop=di('<circle cx="20" cy="20" r="14" fill="#5cb04e"/><path d="M20 20V6A14 14 0 0 1 34 20z" fill="#d9893a"/><path d="M20 20H6A14 14 0 0 0 20 34z" fill="#2f6fd0"/>');
 {const c=DECOR_CATS.find(x=>x.key==='signature');c.items.push('sportstop')}
+// ---- script word topper (e.g. "forever|eva"), traced from the script fonts ----
+const SCRIPT_WAIT=new Set();
+function scriptTopParts(q,c,mode,dc){const MF=MSG_FONTS[(dc&&dc.font)||'dancing']||MSG_FONTS.dancing,ff={css:MF.css,w:MF.w||''},fs=(ff.w?ff.w+' ':'')+'80px '+MF.css;
+ if(document.fonts&&!document.fonts.check(fs)&&!SCRIPT_WAIT.has(fs)){SCRIPT_WAIT.add(fs);document.fonts.load(fs).then(()=>{GLY.clear();scheduleBuild()}).catch(()=>{})}
+ const lines=String((dc&&dc.text)||'forever|eva').split('|').slice(0,3),gs=[];let y=0;
+ lines.forEach((ln,i)=>{const sh=NUM_FONT.generateShapes(ln,.55,ff);if(!sh.length)return;const g=new T.ExtrudeGeometry(sh,{depth:.07,bevelEnabled:true,bevelThickness:.012,bevelSize:.008,bevelSegments:1,curveSegments:6});g.computeBoundingBox();const b=g.boundingBox;g.translate(-(b.min.x+b.max.x)/2+(i%2?.25:-.1),-b.max.y+y,-.035);y-=(b.max.y-b.min.y)*.86;gs.push(g)});
+ if(!gs.length)return[];const m=mg(gs);m.computeBoundingBox();const bb=m.boundingBox,pk=[];for(const sx of[-.28,.28]){const p=new T.CylinderGeometry(.022,.022,1.3,8);p.translate(sx,bb.min.y-.55,0);pk.push(p)}
+ return[[sgMat.metal(c),mg([m,...pk])]]}
+DECOR.scripttop={label:'Script Word Topper',layouts:['cluster'],layout:'cluster',count:1,max:1,color:'#d9a08a',colors:['#d9a08a','#d4ae5a','#c9ccd2','#1d1b1f','#fbf7f1'],sp:.4,side:'up',sink:.6,tilt:[0,0],spin:0,make:scriptTopParts};
+DECOR_ICONS.scripttop=di('<text x="20" y="24" font-size="13" text-anchor="middle" fill="#d9a08a" font-style="italic" font-family="cursive">love</text>');
+{const c=DECOR_CATS.find(x=>x.key==='signature');c.items.push('scripttop')}
